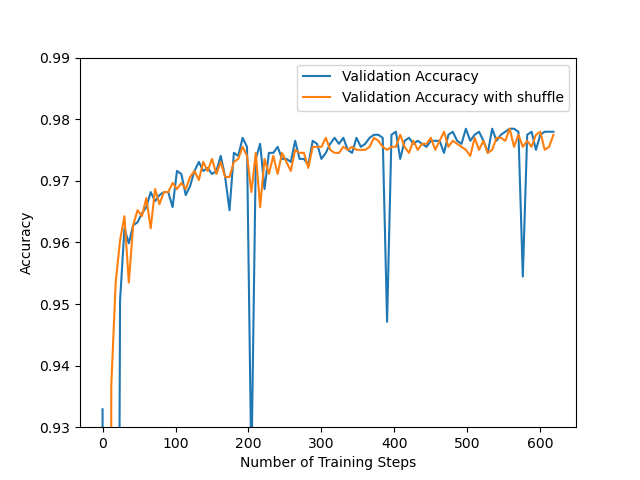
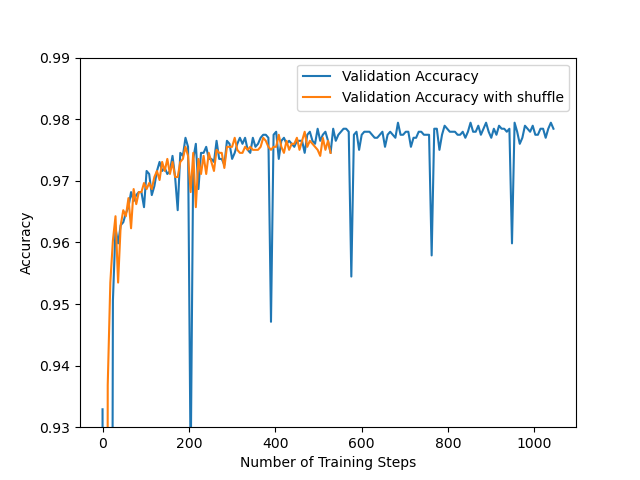
added correct images for ex2

diff --git a/assignment1/task2.py b/assignment1/task2.py
@@ -74,7 +74,7 @@ class LogisticTrainer(BaseTrainer):
 
 if __name__ == "__main__":
     # hyperparameters DO NOT CHANGE IF NOT SPECIFIED IN ASSIGNMENT TEXT
-    num_epochs = 20 #changed in 2d
+    num_epochs = 500 #changed in 2d
     learning_rate = 0.05
     batch_size = 128
     shuffle_dataset = False
